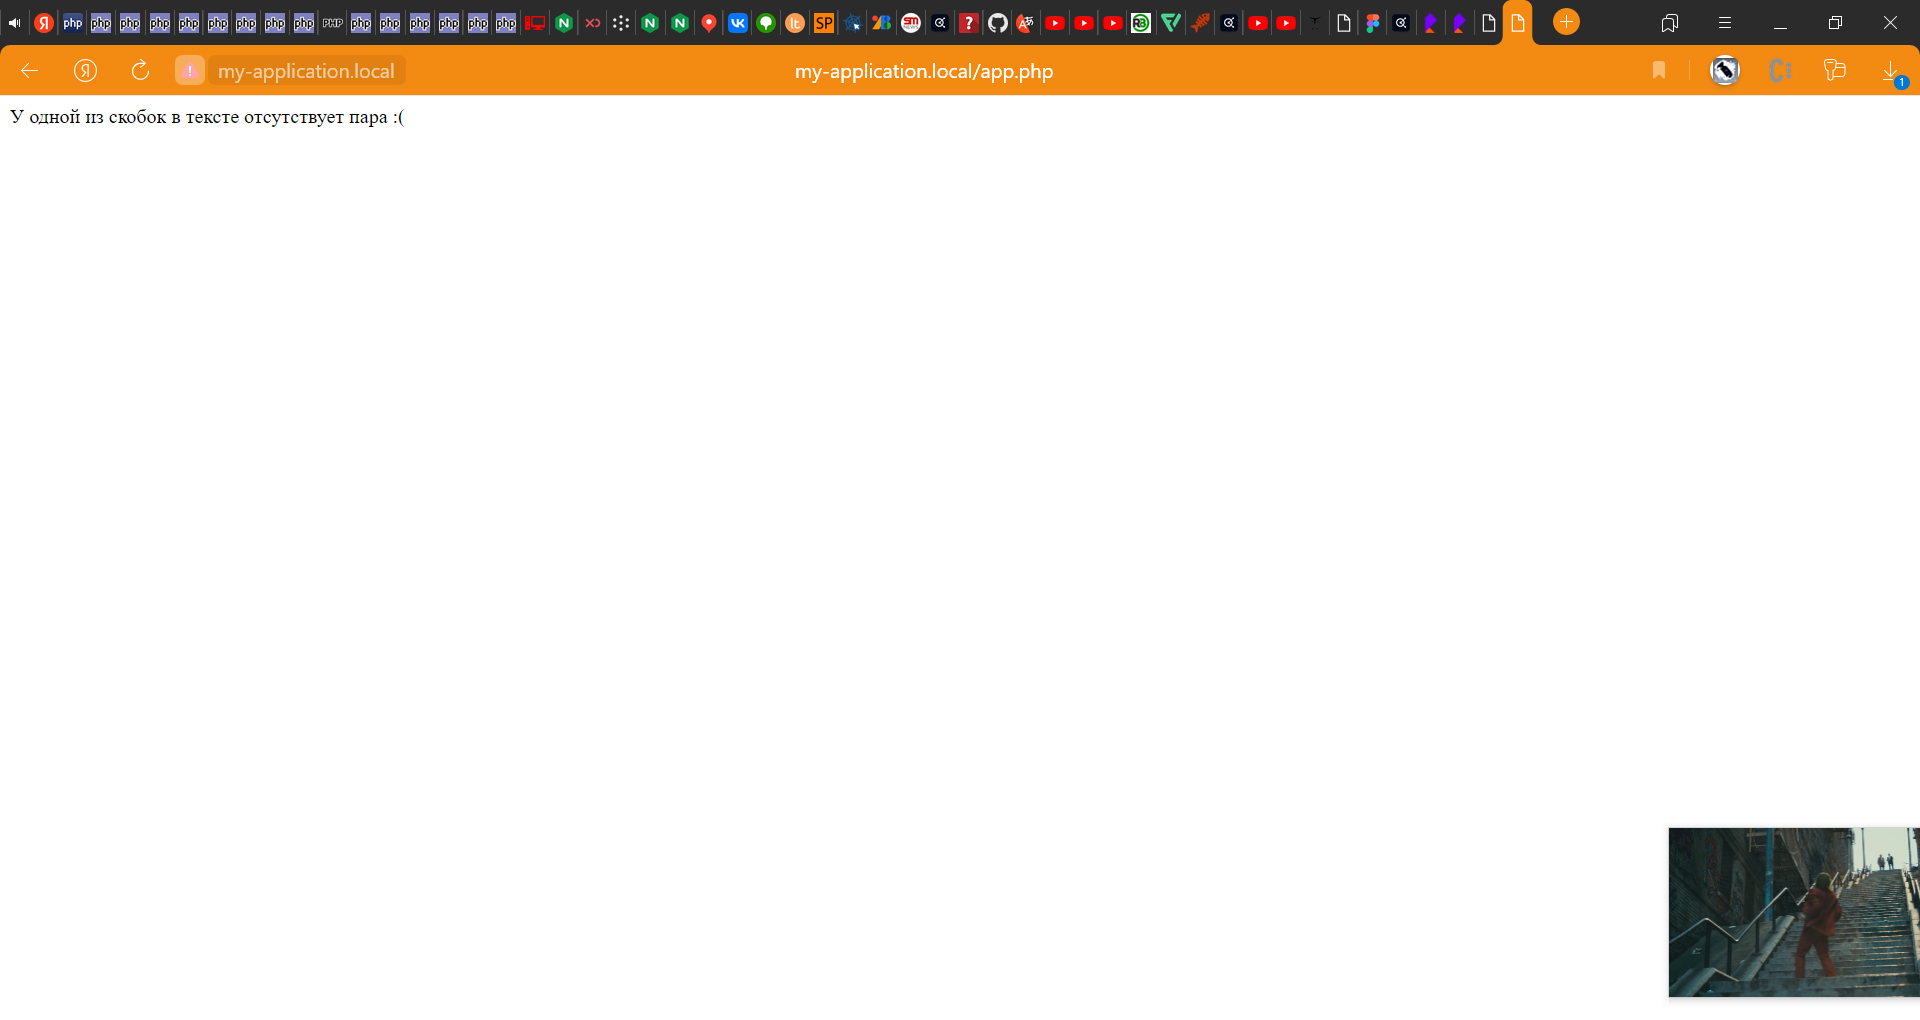
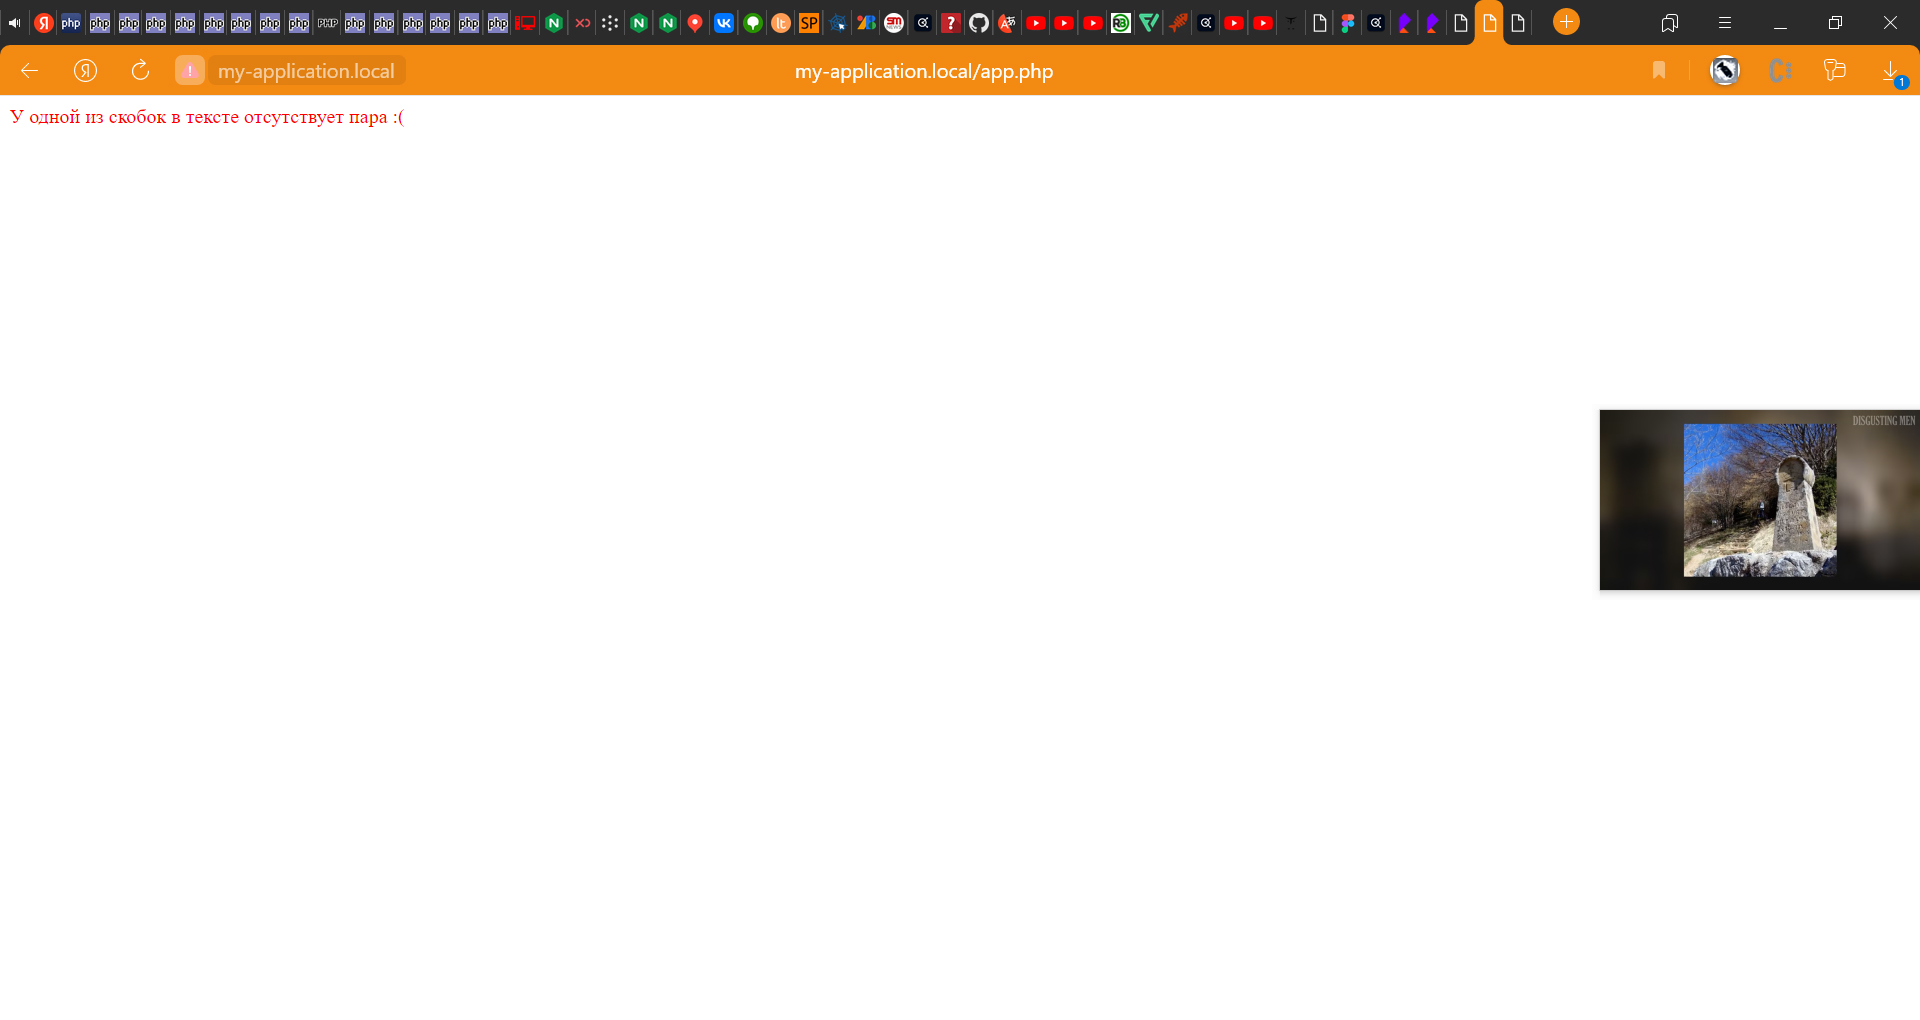
HW-4/Add instruction

diff --git a/code/app_src/Application.php b/code/app_src/Application.php
@@ -11,11 +11,11 @@ class Application
     public function __construct()
     {
         if (!RequestValidator::checkRequestType('POST')) {
-            throw new \Exception('Ошибочный метод запроса');
+            throw new \Exception('<span style="color: red">Ошибочный метод запроса</span>');
         }
 
         if (RequestValidator::checkRequestIsEmpty($_POST)) {
-            throw new \Exception('Пустой запрос');
+            throw new \Exception('<span style="color: red">Пустой запрос</span>');
         }
         $this->request = $_POST;
     }
@@ -23,12 +23,12 @@ class Application
     public function run()
     {
         if (!isset($this->request['STRING_TO_CHECK']) || empty($this->request['STRING_TO_CHECK'])) {
-            throw new \Exception('Ничего не введено');
+            throw new \Exception('<span style="color: red">Ничего не введено</span>');
         }
 
         if (strpos($this->request['STRING_TO_CHECK'], $this->openBracket) === false &&
             strpos($this->request['STRING_TO_CHECK'], $this->closeBracket) === false) {
-            throw new \Exception('В введённом тексте отсутсвуют скобки');
+            throw new \Exception('<span style="color: red">В введённом тексте отсутсвуют скобки</span>');
         }
         $this->checkBracketPairs();
     }
@@ -42,7 +42,7 @@ class Application
             if ($singleChar == $this->closeBracket) {
 
                 if ($openBracketsCounter <= 0) {
-                    throw new \Exception('У одной из скобок в тексте отсутствует пара :(');
+                    throw new \Exception('<span style="color: red">У одной из скобок в тексте отсутствует пара :(</span>');
                 }
                 $openBracketsCounter--;
             }
@@ -53,8 +53,8 @@ class Application
         }
 
         if ($openBracketsCounter) {
-            throw new \Exception('У одной из скобок в тексте отсутствует пара :(');
+            throw new \Exception('<span style="color: red">У одной из скобок в тексте отсутствует пара :(</span>');
         }
-        throw new \Exception('Со скобками в тексте всё хорошо :)');
+        throw new \Exception('<span style="color: green">Со скобками в тексте всё хорошо :)</span>');
     }
 }

diff --git a/README.md b/README.md
@@ -1,3 +1,40 @@
 # Домашняя работа №4 - PHP WebServers
 
 ## Выполнил: Мелёшкин В.В.
+
+### Инструкция:
+
+Приложение предназначено для проверки парности скобок в скобок в 
+введённом тексте. Интерефейс приложения крайне прост и состоит из
+поля для ввода текста и кнопки запуска проверки:
+
+![Интерфейс приложения](screenshots/application.jpg)
+
+Если попытаться оставить поле не заполненым, приложение выведет 
+следущее сообщение об ошибке:
+
+![Ничего не введено](screenshots/empty.jpg)
+
+Если ввести текст в котором в принципе отсутсвуют скобки:
+
+![Текст без скобок](screenshots/no_brackets_text.jpg)
+
+Приложение выведете следущее сообщение:
+
+![Сообщение: в тексте отсутсвуют скобки](screenshots/non_brackets_text_answer.jpg)
+
+Если в тексте будут присутсвовать скобки без пары:
+
+![Текст со скобками без пары](screenshots/no_pair_brackets_text.jpg)
+
+Приложение выдаст следущее сообщение об ошибке:
+
+![Сообщение: У одной из скобок отсутсвует пара](screenshots/no_pair_brackets_text_answer.jpg)
+
+Если со скобками в тексте всё хорошо:
+
+![Текст в котором у каждой скобки есть пара](screenshots/normal_brackets_text.jpg)
+
+Приложение подтвердит что со скобками в тексте всё в порядке:
+
+![Текст в котором у каждой скобки есть пара](screenshots/succsess_answer.jpg)
